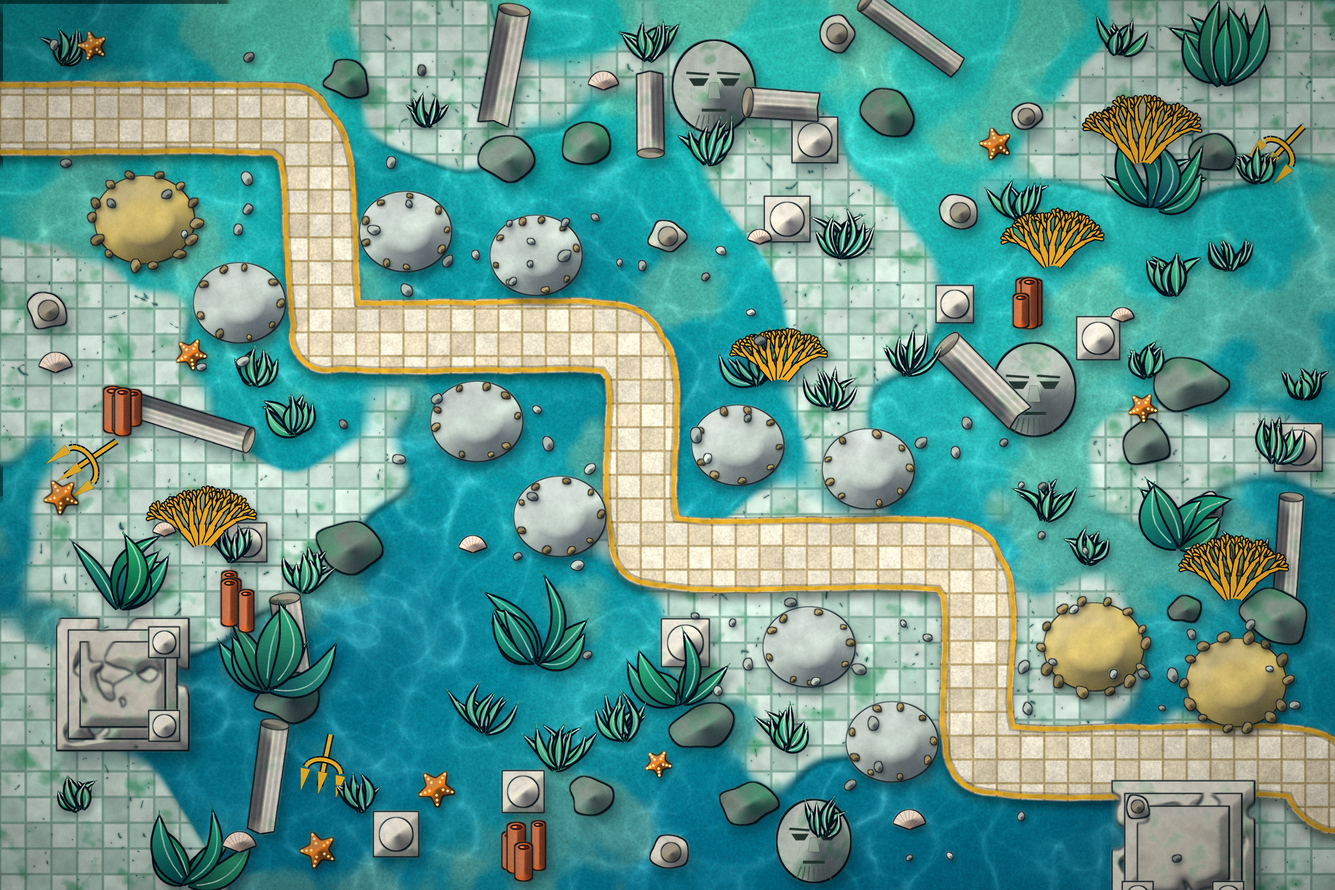
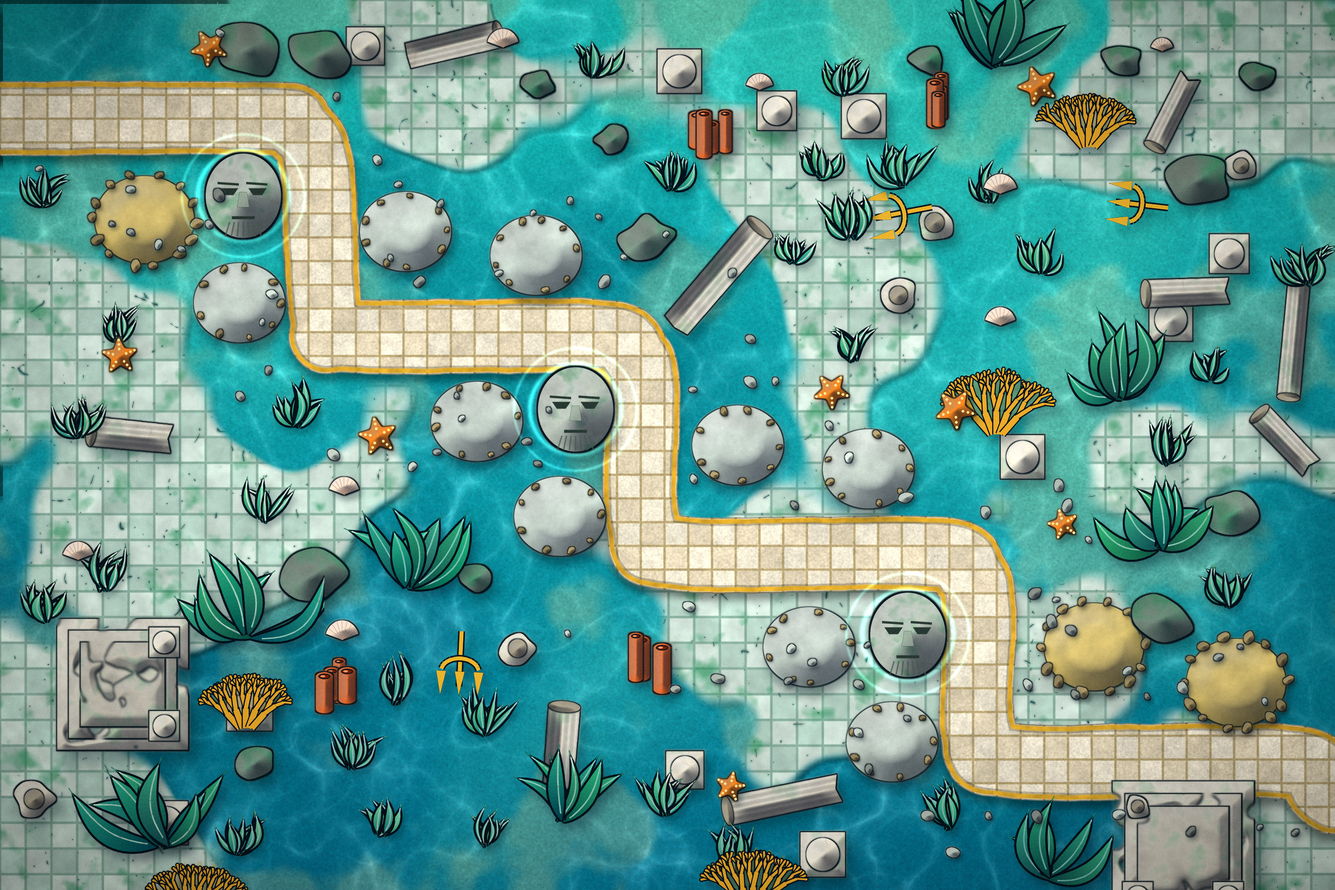
buz koyu yeniden tasarlandi

diff --git a/tools/mapgen/ice.py b/tools/mapgen/ice.py
@@ -1,4 +1,4 @@
-"""Buz Koyu: koyu su kanalı, beyaz buz plakaları, buzdağları ve penguenler. Yol kendini ortada keser (X)."""
+"""Buz Koyu: koyu su kanalı, beyaz buz plakaları, buzdağları ve penguenler. İki kanal ortada çapraz geçer (X)."""
 import numpy as np
 
 import common as C
@@ -9,16 +9,17 @@ import specs as S
 from common import H, K, W, rgb, smoothstep
 
 SPOTS = [
-    (770, 434, 'normal'), (1094, 506, 'high'), (410, 482, 'normal'), (1022, 326, 'normal'), (182, 254, 'high'),
-    (170, 734, 'high'), (722, 602, 'normal'), (626, 338, 'normal'), (566, 626, 'normal'), (890, 398, 'normal'),
-    (1142, 386, 'normal'), (974, 554, 'normal'),
+    (675, 350, 'normal'), (495, 446, 'normal'), (855, 446, 'normal'), (675, 556, 'normal'),
+    (560, 625, 'normal'), (790, 625, 'normal'), (242, 290, 'normal'), (1108, 290, 'normal'),
+    (170, 62, 'high'), (1180, 62, 'high'), (340, 800, 'normal'), (1010, 800, 'normal'),
+    (182, 746, 'high'), (1168, 746, 'high'),
 ]
 ICE_EDGE = rgb('#16456a')
 
 
 def build(out_path):
     rng = np.random.default_rng(5505)
-    dc, smooth = C.centerline_dist([S.ICE_PATH])
+    dc, smooth = C.centerline_dist([S.ICE_L, S.ICE_R])
     dc1 = C.logic(dc)
     hw = 42
     yy, xx = C.grid()
@@ -40,7 +41,7 @@ def build(out_path):
     d = dc - (hw + wob * 7)
     chan = smoothstep(0.7, -0.7, d)
     crack_line = smoothstep(0.68, 0.82, C.ridged(H, W, 20, rng, 3))
-    pools = smoothstep(0.745, 0.76, C.fbm(H, W, 60, rng, 3)) * smoothstep(60, 110, dc)
+    pools = np.zeros_like(dc)   # dağınık gölcükler yol gibi okunuyordu, kaldırıldı
     crack_line = crack_line * (~keep_hi)
     pools = pools * (~keep_hi)
     ice = np.clip((1 - chan) * (1 - crack_line * 0.95) * (1 - pools), 0, 1)

diff --git a/tools/mapgen/specs.py b/tools/mapgen/specs.py
@@ -55,12 +55,9 @@ ABYSS_LEFT = ABYSS_HEAD + sx([(400, 290), (260, 420), (250, 570), (380, 700)]) +
 ABYSS_RIGHT = ABYSS_HEAD + sx([(720, 290), (860, 420), (870, 570), (740, 700)]) + ABYSS_TAIL
 
 # ---------------------------------------------------------------- Buz Koyu
-# Yol kendini ortada keser (sekiz / X biçimi): merkezdeki kuleler iki kolu birden vurur.
-ICE_PATH = [
-    (-40, 110), (200, 170), (420, 300), (640, 450), (860, 580), (1050, 690), (1230, 640), (1290, 480),
-    (1200, 320), (1040, 220), (860, 250), (740, 350), (640, 450), (520, 560), (390, 690), (240, 790),
-    (80, 880), (30, 945),
-]
+# Birbirine simetrik iki kanal ortada çapraz geçer, her biri dönmeden düz devam edip ekranın altından çıkar.
+ICE_L = [(-40, 70), (230, 190), (480, 330), (675, 450), (870, 570), (1030, 700), (1120, 830), (1160, 945)]
+ICE_R = [(1390, 70), (1120, 190), (870, 330), (675, 450), (480, 570), (320, 700), (230, 830), (190, 945)]
 
 # ---------------------------------------------------------------- Volkanik Bacalar
 # Üç sütunlu dikey zigzag: yukarıdan aşağı, aşağıdan yukarı, tekrar aşağı.
@@ -85,3 +82,7 @@ MANGROVE_TAIL = [(800, 710), (900, 770), (1020, 830), (1100, 945)]
 MANGROVE_LEFT = MANGROVE_HEAD + [(430, 400), (370, 520), (430, 640), (560, 730), (690, 745)] + MANGROVE_TAIL
 MANGROVE_MID = MANGROVE_HEAD + [(610, 380), (640, 500), (690, 610), (750, 680)] + MANGROVE_TAIL
 MANGROVE_RIGHT = MANGROVE_HEAD + [(800, 300), (980, 370), (1030, 520), (930, 640), (860, 690)] + MANGROVE_TAIL
+
+# Atlantis koruyucu başları (oyundaki periyodik darbe merkezleri) ve Batık Gemi hazine sandığı
+ATLANTIS_GUARDIANS = [(246, 198), (582, 414), (918, 642)]
+BATIK_TREASURE = (X(905), 852)

diff --git a/tools/mapgen/export_js.py b/tools/mapgen/export_js.py
@@ -30,7 +30,7 @@ def spots(sp, per_line=3):
     return '\n'.join('                ' + ln for ln in lines)
 
 
-def geo(paths, sp):
+def geo(paths, sp, extra=None):
     out = ['            paths: [']
     for p in paths:
         out.append('                [')
@@ -40,13 +40,18 @@ def geo(paths, sp):
     out.append('            buildSpots: [')
     out.append(spots(sp))
     out.append('            ],')
+    extra = extra or {}
+    if 'guardians' in extra:
+        out.append('            guardians: [' + ', '.join(f'{{ x: {x}, y: {y} }}' for x, y in extra['guardians']) + '],')
+    if 'treasure' in extra:
+        out.append(f"            treasure: {{ x: {extra['treasure'][0]}, y: {extra['treasure'][1]} }},")
     return '\n'.join(out)
 
 
 def registry():
     reg = {
         'yosun': ([S.KELP_PATH], S.KELP_SPOTS),
-        'batik': ([S.WRECK_LANE_L, S.WRECK_LANE_R], wreck.SPOTS),
+        'batik': ([S.WRECK_LANE_L, S.WRECK_LANE_R], wreck.SPOTS, {'treasure': S.BATIK_TREASURE}),
         'girdap': ([S.VORTEX_PATH], vortex.SPOTS),
         'cukur': ([S.ABYSS_LEFT, S.ABYSS_RIGHT], abyss.SPOTS),
     }
@@ -62,8 +67,9 @@ def registry():
 def main():
     reg = registry()
     text = open(MAPS_JS, encoding='utf-8').read()
-    for name, (paths, sp) in reg.items():
-        block = geo(paths, sp)
+    for name, entry in reg.items():
+        paths, sp = entry[0], entry[1]
+        block = geo(paths, sp, entry[2] if len(entry) > 2 else None)
         pat = re.compile(r'(            // geo:begin %s\n).*?(\n            // geo:end %s)' % (name, name), re.S)
         if '--write' in sys.argv:
             if not pat.search(text):

diff --git a/tools/mapgen/atlantis.py b/tools/mapgen/atlantis.py
@@ -90,6 +90,8 @@ def build(out_path):
     for x, y, _ in SPOTS:
         PL.disk(wide, x, y, 125)
     wide |= dc1 < hw + 50
+    for gx, gy in S.ATLANTIS_GUARDIANS:
+        PL.disk(avoid, gx, gy, 80)
     ew = PL.edge_weights(1.0, 0.25)
     sh_ = (5, 8, 6, 0.38, (0.0, 0.1, 0.12))
 
@@ -98,7 +100,12 @@ def build(out_path):
         if p:
             sc.stamp(AT.temple_base(rng, rng.uniform(130, 160)), p[0][0], p[0][1], shadow=(8, 12, 8, 0.4, (0, 0.1, 0.12)))
             PL.disk(avoid, p[0][0], p[0][1], 100)
-    PL.sprinkle(sc, rng, lambda r: AT.stone_head(r, r.uniform(30, 42)), 3, avoid | wide, 150, weights=ew, block=60, shadow=sh_)
+    # koruyucu başlar: oyunda periyodik olarak düşmanlara vurur, altlarında soluk bir rün çemberi var
+    for gx, gy in S.ATLANTIS_GUARDIANS:
+        d = np.sqrt((xx - gx) ** 2 + (yy - gy) ** 2)
+        sc.add(rgb('#7ffff0'), np.exp(-((d - 46) / 2.6) ** 2) * 0.42 + np.exp(-((d - 62) / 1.6) ** 2) * 0.22)
+        sc.stamp(AT.stone_head(rng, 38), gx, gy, shadow=(5, 8, 6, 0.4, (0.0, 0.1, 0.12)))
+        PL.disk(avoid, gx, gy, 70)
     PL.sprinkle(sc, rng, lambda r: AT.column(r, r.uniform(13, 18), broken=r.random() < 0.4), 16, avoid, 70, weights=ew, block=30, shadow=sh_, keepout=wide)
     PL.sprinkle(sc, rng, lambda r: AT.fallen_column(r, r.uniform(70, 130), r.uniform(11, 16)), 9, avoid, 100, weights=ew, block=50, shadow=sh_, keepout=wide)
     PL.sprinkle(sc, rng, lambda r: AT.trident(r, r.uniform(50, 66)), 3, avoid, 120, weights=ew, block=40, shadow=sh_, keepout=wide)

diff --git a/tools/mapgen/extra_maps.py b/tools/mapgen/extra_maps.py
@@ -8,8 +8,8 @@ import volcano
 
 def registry():
     return {
-        'buz': ([S.ICE_PATH], ice.SPOTS),
+        'buz': ([S.ICE_L, S.ICE_R], ice.SPOTS),
         'volkan': ([S.VOLCANO_PATH], volcano.SPOTS),
-        'atlantis': ([S.ATLANTIS_PATH], atlantis.SPOTS),
+        'atlantis': ([S.ATLANTIS_PATH], atlantis.SPOTS, {'guardians': S.ATLANTIS_GUARDIANS}),
         'mangrov': ([S.MANGROVE_LEFT, S.MANGROVE_MID, S.MANGROVE_RIGHT], mangrove.SPOTS),
     }

diff --git a/tools/mapgen/layout.py b/tools/mapgen/layout.py
@@ -15,7 +15,7 @@ MAPS = {
     'wreck': [S.WRECK_LANE_L, S.WRECK_LANE_R],
     'vortex': [S.VORTEX_PATH],
     'abyss': [S.ABYSS_LEFT, S.ABYSS_RIGHT],
-    'ice': [S.ICE_PATH],
+    'ice': [S.ICE_L, S.ICE_R],
     'volcano': [S.VOLCANO_PATH],
     'atlantis': [S.ATLANTIS_PATH],
     'mangrove': [S.MANGROVE_LEFT, S.MANGROVE_MID, S.MANGROVE_RIGHT],
